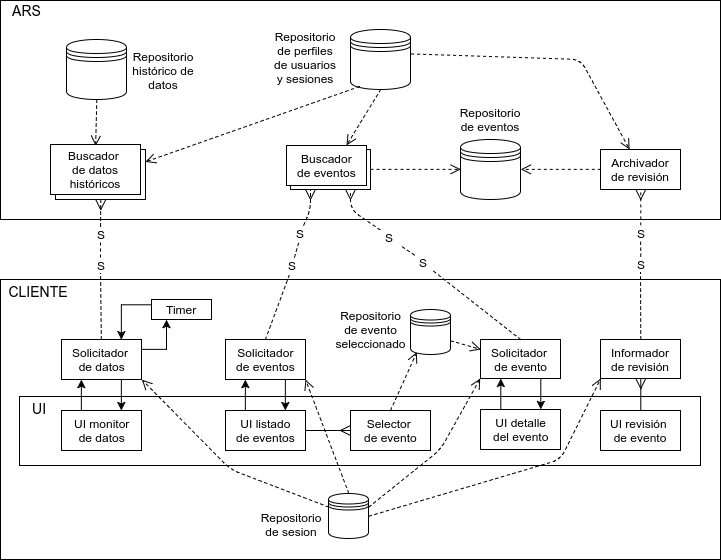
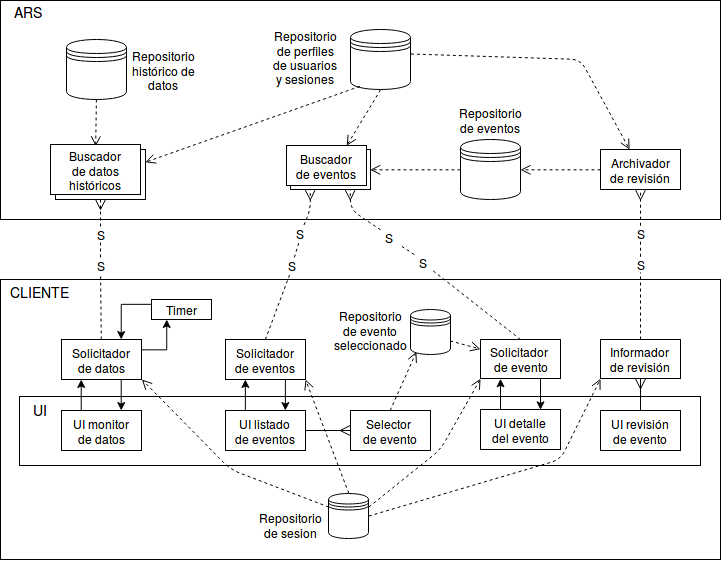
tp final

diff --git a/informe/partes/arquitectura.tex b/informe/partes/arquitectura.tex
@@ -1,6 +1,6 @@
 \section{Arquitectura}
 
-\subsection{Estructura general}
+\subsection{ARS}
 
 \par Primero vamos a presentar la arquitectura del core de nuestro sistema (ARS), es decir de la parte que se encarga de realizar todas las operaciones sobre los datos (ver figura \ref{fig:dia_cyc_core}). \\
 
@@ -18,7 +18,7 @@
 \begin{figure}[H]
   \centering
   \includegraphics[angle=-90,scale=0.52]{imagenes/diagramas/core.png}
-  \caption{Diagrama de componentes y conectores que muestra la estructura general y la interacción entre los componentes mas significativos.}
+  \caption{Diagrama de componentes y conectores que muestra la estructura del ARS y la interacción entre los componentes mas significativos.}
   \label{fig:dia_cyc_core}
 \end{figure}
 \newpage
@@ -44,10 +44,11 @@ En la figura \ref{fig:proc_med} podemos observar en detalle el componente Proces
 \par Las funcionalidades disponibles de nuestro sistema ARS desde el punto de vista de la interfaz de usuario son: monitoreo de datos, visualizar la lista de eventos y revisar los mismos. En todos los casos se necesita que el cliente se comunique con el servidor.
 
 \begin{itemize}
-    \item \textbf{Monitor de datos:} El usuario ingresa a la pantalla de monitoreo y el componente \textit{UI monitor de datos} le envía un mensaje asincrónico al \textit{Solicitador de datos} para pedirle las últimas mediciones tomadas. Al recibir esta petición, lee en el \textit{Repositorio de sesión} las credenciales de sesión actual y le envía un mensaje al componente \textit{UI monitor de datos} para avisarle que recibió su solicitud y que la está procesando. El \textit{Solicitador de datos} se comunica de manera segura (ya que viajan credenciales) con el \textit{Buscador de datos históricos} (que se encuentra en el servidor ARS). Es importante aclarar que le pide una cantidad limitada de datos. Una vez que un \textit{Buscador de datos históricos} recibe una petición, valida que el usuario posea los permisos necesarios para acceder a los datos pedidos (por medio del \textit{Repositorio de perfiles de usuarios y sesiones}). Si el usuario no posee permisos (o su sesión no es válida), el buscador le responde al solicitador acceso denegado. En el caso de que el usuario posea los permisos necesarios, el \textit{Buscador de datos históricos} lee desde el \textit{Repositorio histórico de datos} los datos requeridos para luego enviárselos al \textit{Pulicitador de datos}. Una vez que este recibe la respuesta, se la comunica a la \textit{UI monitor de datos} para que los muestre. Como es una herramienta de monitoreo se necesita que con el correr del tiempo se muestren nuevos datos sin la solicitud expresa del usuario. Por esta razón, incluimos un componente llamado \textit{Timer} para que luego de un tiempo configurado le avise al \textit{Solicitador de datos} que debe pedir nuevos datos. Al recibir este aviso, realiza un nuevo pedido al \textit{Buscador de datos históricos} indicando que se quieren obtener solo datos con fecha mayor al último pedido.
+    \item \textbf{Monitor de datos:} El usuario ingresa a la pantalla de monitoreo y el componente \textit{UI monitor de datos} le envía un mensaje asincrónico al \textit{Solicitador de datos} para pedirle las últimas mediciones tomadas. Al recibir esta petición, lee en el \textit{Repositorio de sesión} las credenciales de sesión actual y le envía un mensaje al componente \textit{UI monitor de datos} para avisarle que recibió su solicitud y que la está procesando. El \textit{Solicitador de datos} se comunica de manera segura (ya que viajan credenciales) con el \textit{Buscador de datos históricos} (que se encuentra en el servidor ARS). Es importante aclarar que le pide una cantidad limitada de datos. Una vez que un \textit{Buscador de datos históricos} recibe una petición, valida que el usuario posea los permisos necesarios para acceder a los datos pedidos (por medio del \textit{Repositorio de perfiles de usuarios y sesiones}). \\
+    Si el usuario no posee permisos (o su sesión no es válida), el buscador le responde al solicitador acceso denegado. En el caso de que el usuario posea los permisos necesarios, el \textit{Buscador de datos históricos} lee desde el \textit{Repositorio histórico de datos} los datos requeridos para luego enviárselos al \textit{Pulicitador de datos}. Una vez que este recibe la respuesta, se la comunica a la \textit{UI monitor de datos} para que los muestre. Como es una herramienta de monitoreo se necesita que con el correr del tiempo se muestren nuevos datos sin la solicitud expresa del usuario. Por esta razón, incluimos un componente llamado \textit{Timer} para que luego de un tiempo configurado le avise al \textit{Solicitador de datos} que debe pedir nuevos datos. Al recibir este aviso, realiza un nuevo pedido al \textit{Buscador de datos históricos} indicando que se quieren obtener solo datos con fecha mayor al último pedido.
     \item \textbf{Visualizar la lista de eventos:} El usuario accede a la pantalla de listar eventos y el componente UI listado de eventos le envía un mensaje asincrónico al solicitador de eventos y éste le envía otro mensaje asincrónico para avisarle que recibió la solicitud. El solicitador de eventos lee los datos del usuario en el repositorio de sesión y luego establece una conexión segura con el buscador de eventos para solicitarle la lista de eventos. El buscador de eventos lee el repositorio de usuarios, roles y sesiones para validar los datos de acceso y luego el repositorio de eventos para pedir la lista de eventos. El buscador de eventos le envía la lista al solicitador de eventos para que éste se lo reenvíe a la interfaz de usuario. \\
     De manera opcional, el usuario puede seleccionar un evento en particular. En ese caso, UI listado de eventos le envía un mensaje sincrónico al selector de evento con el evento elegido para que lo almacene en el Repositorio de evento seleccionado.
-    \item \textbf{Visualizar detalle del evento seleccionado:}Una vez que el usuario logueado está en la pantalla de visualización de un evento en particular, la \textit{UI detalle del evento} por medio de un call asincrónico le indica al \textit{Solicitador de evento} que busque en el \textit{Repositorio de evento seleccionado} (después de validar la sesión por medio de la lectura del \textit{Repositorio de sesión}) cuál es el evento a mostrar. Los datos del mismo son enviados por otro call asincrónico a la misma UI, que sabe como renderizar la información requerida.
+    \item \textbf{Visualizar detalle del evento seleccionado:} Una vez que el usuario logueado está en la pantalla de visualización de un evento en particular, la \textit{UI detalle del evento} por medio de un call asincrónico le indica al \textit{Solicitador de evento} que busque en el \textit{Repositorio de evento seleccionado} (después de validar la sesión por medio de la lectura del \textit{Repositorio de sesión}) cuál es el evento a mostrar. Los datos del mismo son enviados por otro call asincrónico a la misma UI, que sabe como renderizar la información requerida.
     \item \textbf{Revisión de eventos:} En la pantalla de revisión de evento el usuario puede informar la acción realizada o bien, un falso positivo. La interfaz de usuario de revisión de evento le envía un call sincrónico con el resultado del evento para que el informador de revisión lea el repositorio de sesión y luego se lo pase al archivador de revisión. El archivador de sesión valida los datos de usuario y escribe en el repositorio de eventos la medida tomada o el falso positivo.
 \end{itemize}
 
@@ -61,9 +62,11 @@ En la figura \ref{fig:proc_med} podemos observar en detalle el componente Proces
 
 \subsection{Autenticación y creación de sesiones}
 
-\par A continuación pasaremos a explicar los procesos de autenticación, creación de sesión y finalización de sesión. Estos procesos se observan en el diagrama de componentes y conectores de la figura \ref{fig:dia_cyc_autenticacion}. \\
+\par A continuación pasaremos a explicar los procesos de autenticación, creación de sesión y finalización de sesión. Estos procesos se observan en el diagrama de componentes y conectores de la figura \ref{fig:dia_cyc_autenticacion}.\\
 
-\par El proceso de autenticación con el sistema ARS inicia cuando una persona ingresa sus datos de usuario y contraseña en la \textit{UI Login}, que envía estos datos al \textit{Iniciador de login} y se queda esperando la respuesta. Éste, por su parte, inicia una conexión segura con el \textit{Validador de usuarios y contraseñas} (dentro del sistema ARS) para enviarle la petición junto con los datos sensibles de autenticación. Al recibir la petición, el componente \textit{Validador de usuarios y contraseñas} se conecta con el \textit{Hasher}, le envía la contraseña y espera a que sea procesada y devuelta. Una vez obtenido el hash de la contraseña, el componente \textit{Validador de usuarios y contraseñas} corrobora en el \textit{Repositorio de usuarios y contraseñas hasheadas} que exista un usuario que corresponda a esos valores. En caso que no se encuentre el usuario corespondiente, se responde al \textit{Iniciador de sesión} con un error que indica que alguno de los datos ingresados es incorrecto. Este componente responde de la misma manera a la \textit{UI Login} para que muestre el error. En caso de que el componente \textit{Validador de usuarios y contraseñas} encuentre al usuario que corresponde a los valores buscados, le pide al \textit{Creador de sesiones} que genere una nueva sesión para este usuario. Luego de generar la sesión, el \textit{Creador de sesiones} la guarda en el \textit{Repositorio de perfiles de usuarios y sesiones} y responde al \textit{Validador de usuarios y contraseñas} con esta nueva sesión. Para finalizar, se envía esta nueva sesión al \textit{Iniciador de sesión}, quien la almacena en el \textit{Repositorio de sesión} y le comunica a la \textit{UI Login} que se ha conseguido iniciar sesión correctamente. \\
+\par El proceso de autenticación con el sistema ARS inicia cuando una persona ingresa sus datos de usuario y contraseña en la \textit{UI Login}, que envía estos datos al \textit{Iniciador de login} y se queda esperando la respuesta. Éste, por su parte, inicia una conexión segura con el \textit{Validador de usuarios y contraseñas} (dentro del sistema ARS) para enviarle la petición junto con los datos sensibles de autenticación. Al recibir la petición, el componente \textit{Validador de usuarios y contraseñas} se conecta con el \textit{Hasher}, le envía la contraseña y espera a que sea procesada y devuelta. Una vez obtenido el hash de la contraseña, el componente \textit{Validador de usuarios y contraseñas} corrobora en el \textit{Repositorio de usuarios y contraseñas hasheadas} que exista un usuario que corresponda a esos valores. \\
+
+\par En caso que no se encuentre el usuario corespondiente, se responde al \textit{Iniciador de sesión} con un error que indica que alguno de los datos ingresados es incorrecto. Este componente responde de la misma manera a la \textit{UI Login} para que muestre el error. En caso de que el componente \textit{Validador de usuarios y contraseñas} encuentre al usuario que corresponde a los valores buscados, le pide al \textit{Creador de sesiones} que genere una nueva sesión para este usuario. Luego de generar la sesión, el \textit{Creador de sesiones} la guarda en el \textit{Repositorio de perfiles de usuarios y sesiones} y responde al \textit{Validador de usuarios y contraseñas} con esta nueva sesión. Para finalizar, se envía esta nueva sesión al \textit{Iniciador de sesión}, quien la almacena en el \textit{Repositorio de sesión} y le comunica a la \textit{UI Login} que se ha conseguido iniciar sesión correctamente.\\
 
 \par Para el caso del cierre de sesión, cualquier componente dentro de \textit{UI} (donde se incluyen las interfaces para usuarios autenticados) puede enviar una petición al \textit{Finalizador de sesión}, quien inicia una conexión segura con el componente \textit{Borrador de sesión} (dentro del sistema ARS) y le comunica que quiere borrar la sesión. Es importante mencionar que la conexión debe ser segura porque un intermediario podría hacerse pasar por el sistema ARS, contestar que se procesó la petición y continuar utilizando esta sesión válida con acceso a datos sensibles del sistema. El componente \textit{Borrador de sesión} valida la sesión con el \textit{Repositorio de perfiles de usuarios y sesiones}, la marca como finalizada y envía la respuesta al \textit{Finalizador de sesión}. Por último, este componente borra la sesión que se encontraba almacenada en el \textit{Repositorio de sesión} y comunica a quien inició la petición que se procesó el pedido con éxito.
 
@@ -75,6 +78,21 @@ En la figura \ref{fig:proc_med} podemos observar en detalle el componente Proces
   \label{fig:dia_cyc_autenticacion}
 \end{figure}
 
+
+
+\subsection{Estructura general}
+
+Finalmente, y abstrayéndonos de los detalles, los componentes que interactúan en todo el sistema se observan en la figura \ref{fig:general}.
+
+\begin{figure}[H]
+  \begin{subfigure}{\textwidth}
+    \includegraphics[width=\textwidth]{imagenes/diagramas/general.png}
+  \end{subfigure}
+  \caption{Diagrama general del sistema}
+  \label{fig:general}
+\end{figure}
+
+Todo el sistema ARS va a estar instalado en el Ministerio de Energía, junto con el de SimOil, y los sensores van a estar ubicados en el yacimiento.
 
 
 \newpage

diff --git a/informe/partes/cumplimiento_atributos.tex b/informe/partes/cumplimiento_atributos.tex
@@ -4,31 +4,49 @@
 
 \subsection{Performance}
 
-\par
+\begin{itemize}
+    \item \textbf{El sistema no debe tener ningún tipo de demoras:}
+    \par Este atributo de calidad hace referencia principalmente a la interacción de los usuarios con las interfaces del sistema, pero también requiere que, de ser posible, el sistema no deje nunca de funcionar. Para satisfacer este pedido, se tomaron determinaciones que afectaron a distintas partes del sistema. En primer lugar, utilizamos concurrencia en los componentes \textit{Buscador de eventos} y \textit{Buscador de datos históricos}, para poder responder a todos los pedidos de clientes en simultaneo. Al mismo tiempo, el \textit{Buscador de datos históricos} implementa un sistema de paginado que nos asegura tener control sobre la cantidad de datos y el tiempo que le llevará al sistema procesarlos. Para el caso del componente \textit{Archivador de revisión}, no creimos necesaria concurrencia, debido a que solo el encargado de resolver los eventos (Jefe de Operaciones) tendrá acceso a este servicio y deberá guardar una revisión solo en los casos de alarma.
+    
+    \item \textbf{Dar aviso en forma inmediata vía un servicio de SMS:}
+    \par Para resolver este requerimiento, se pensó un procedimiento para asgegurar que cada SMS va a enviarse lo antes posible (siempre limitados por el servicio externo). En primer lugar, al detectarse una anomalía, el componente \textit{Detector de anomalías} da aviso inmediato al \textit{Activador de alarmas}, quien se lo comunica al \textit{Enviador de avisos de alarma}. Este componente intenta iniciar una conexión con el servidor de SMS para pedir el envío del aviso. En caso positivo, el proceso termina. En caso que el servidor de SMS no responda o no pueda procesar nuestro pedido, el mensaje es guardado en el \textit{Repositorio de mensajes pendientes} y se configura el \textit{Timer} para que dé aviso al \textit{Enviador de avisos de alarma} en 2 segundos. Cuando el componente recibe este aviso por parte del \textit{Timer}, busca en el \textit{Repositorio de mensajes pendientes} si hay mensajes para enviar y repite el proceso previo: si se logra enviar se elimina del repositorio, sino se configura el \textit{Timer} nuevamente.
+
+    \item \textbf{Manejo de grandes volúmenes de datos:}
+    \par Para este escenario decidimos que la mejor solución, al igual que con el escenario que especifica que no debe haber demoras, era aplicar la táctica de concurrencia en los componentes que se encargan de leer el repositorio de eventos. Al mismo tiempo, se utiliza concurrencia dentro del \textit{Procesador de mediciones} para contemplar la gran cantidad de mediciones que envían constantemente los sensores.
+    
+    \item \textbf{Detección y aviso de eventos catastróficos:}
+    \par Con todas las medidas tomadas y mencionadas previamente, creemos que desde la recepción de datos de medición hasta el envío del SMS que alerta al encargado se tiene un tiempo adecuado para que el jefe de operaciones pueda actuar en consecuencia antes de que pasen 24 hs.
+
+\end{itemize}
 
 \subsection{Seguridad}
 
-\par
+\begin{itemize}
+    \item \textbf{LogIn:} 
+    \par Como el sistema ARS maneja datos muy sensibles, se debía limitar el acceso solo a actores válidos y a estos mismos brindarle solo el acceso a los componentes permitidos para el rol vinculado a su propio usuario. Para lograr este requisito, se implementa un sistema de LogIn capaz de Autenticar y Autorizar el acceso a los diferentes usuarios. Claramente, en caso de no brindar credenciales válidas, se le niega el acceso al actor que intenta utilizar el sistema.\\
+    Como el proceso de validación se inicia del lado de los clientes, que brindan sus datos de acceso y son enviados al sistema ARS, el canal de conexión entre los mismos debe ser seguro, con el fin de evitar revelar estos datos a cualquiera que se entrometa en la comunicación. Esto se alcanza implementando un handshake de clave asimétrica. 
+    Una vez que el cliente es capaz de enviar la información de manera segura, el sistema ARS a su vez debe comparar los datos recibidos con los datos que válidos ya almacenados. Para mas seguridad, se almacenan los nombres de usuario y sus claves de manera \textit{hasheada}. Por lo tanto, el sistema ARS deberá tener un hasher que se encargue de transformar la información recibida para posteriormente comparar con lo almacenado.\\
+    \item \textbf{Aislación física de los datos:} 
+    \par Por otro lado, todo el sistema ARS junto con las BD de producción y las de backup, estarán instalados en servidores dentro del edificio del Ministerio de Energía, para asegurar la seguridad y la integridad física de los datos procesados, mas allá de la información transmitida entre los diferentes actores.\\
+    \item \textbf{Comunicación segura con Entes Reguladores:} 
+    \par Finalmente, se requiere seguridad en el envío de datos a los Entes Reguladores. Nosotros utilizamos un servidor de mail tradicional para comunicar novedades a los mismos. Claramente, éstos no son infalibles ni seguros. Por ello, no se envía información sensible por estos canales, tan sólo novedades. Es decir que cada cierto tiempo, si hay nuevos datos históricos y eventos, se envía un mail a estos actores diciendo que el sistema ha procesado nuevos datos y hay información actualizada. Entonces para poder verlos, se invita a los mismos a ingresar al sistema (de modo seguro, por el LogIn ya mencionado) y evitando revelar datos importantes de manera innecesaria.
+\end{itemize}
 
 \subsection{Disponibilidad}
 
-\par
+\begin{itemize}
+    \item \textbf{Backup en caso de pérdida o siniestro:} 
+    \par El diseño del sistema está preparado para recuperarse ante una falla en la base de datos de las mediciones históricas. Para esto fueron creados dos repositorios de backup en donde cada cierto tiempo se almacenan los datos que fueron agregados o modificados del repositorio principal. Esta tarea es llevada a cabo por el componente \textit{Backups updater}. Si el repositorio principal falla, automáticamente todos los componentes que lo usan empiezan a apuntar a alguno de los backups, mientras que el \textit{Backup restorer} se encarga de restauración de datos. Una vez que esto sucede, todos los componentes vuelven a apuntar al Repositorio de datos históricos y el usuario nunca detectó que hubo una falla en el sistema.
+    
+    \item \textbf{La alarma vía SMS debe recibirse sí o sí:}
+    \par En el caso en el cual el servidor de SMS no esté disponible, el sistema está preparado para reintentar hasta que el mensaje sea enviado. Para esto se crea el repositorio de mensajes pendientes. Allí, el componente \textit{Enviador de avisos de alarma}, que es el encargado de enviar los SMSs, guarda los mensajes que no pudieron ser enviador por algún problema de disponibilidad del servicio. Luego de cierto tiempo, es notificado por un timer, y procede a reintentar el envío de mensajes que fueron almacenados en el repositorio. Si esta vez logra enviarlos, los borra del repositorio, y sino, vuelve a intentar luego del próximo aviso del timer. 
+\end{itemize}
 
 \subsection{Usabilidad}
 
-\par
-
-\subsection{Testeabilidad}
-
-este no va para mi (aparte ni lo menciona en las preguntas)\\
-
-
-
-\textbf{NO OLVIDAR}\\
-1. ¿Cómo se cumplen los requerimientos de disponibilidad?\\
-2. ¿Cómo se cumplen los requerimientos de seguridad?\\
-3. ¿Cómo es la interacción con los servicios externos? (Instrumentos de monitoreo) ¿Hay
-disponibilidad? ¿Seguridad? ¿Es tolerante a fallos?\\
-4. ¿Cómo se logra performance? ¿Se cumple pronóstico de evento catastrófico 24hs
-antes?\\
-5. ¿Cómo se informa a los entes reguladores?
+\begin{itemize}
+    \item \textbf{Interacción UI-Usuarios:} 
+    \par Como el sistema maneja un gran volumen de datos, los múltiples \textit{requests} entre los clientes y el sistema ARS involucrarán mucha información que eventualmente merme la performance, en comparación a su estado normal. Ante estas situaciones, el sistema debe asegurar que el usuario sepa en todo momento que las transacciones estan ocurriendo (UI con temporizadores de espera) y especialmente que en ventanas donde el usuario debe ingresar datos, la misma se bloquee a la espera de la respuesta proveniente del servidor (para evitar errores por la interacción no esperada del usuario con el sistema). Para esto último se utilizan calls sincrónicos, de lo contrario se usan conectores asincrónicos.
+    \item \textbf{Monitoreo:} 
+    \par Los usuarios dispondrán según sus perfiles, la capacidad de monitorear y visualizar datos de manera ágil y organizada. A los mismos se accede por medio de las diferentes ventanas que componen el módulo de UI del sistema ARS. 
+\end{itemize}

diff --git a/informe/partes/conclusiones.tex b/informe/partes/conclusiones.tex
@@ -6,6 +6,6 @@ La solución presentada especifica los principales casos de uso (actores, condic
 
 El diseño de la arquitectura es un esquema de organización estructural del sistema con un nivel de abstracción alto en donde se muestran las relaciones entre los componentes, que bien pueden ser de software o hardware, y donde se describe qué es lo que hace cada uno sin entrar en el detalle del cómo lo hace, pero cuyas tareas son potencialmente complejas. \\
 
-Este enfoque, conocido como \textit{programming in the large}, está en contraste con el abordado en el TP1. Allí, la implementación la documentamos mediante diagramas del diseño orientado a objetos, el cual nos permitió mostrar componentes a bajo nivel: clases, que se terminan programando, y los objetos, como instancias de las primeras. La interacción entre ellos es más simples y los diagramas nos permitían un mayor detalle de qué es lo que hace cada objeto, pero aún así ocultando el cómo. Esta forma de diseñar se la conoce como \textit{programming in the small}. \\
+Este enfoque, conocido como \textit{programming in the large}, está en contraste con el abordado en el TP1. Allí, la implementación la documentamos mediante diagramas del diseño orientado a objetos, el cual nos permitió mostrar componentes a bajo nivel: clases, que se terminan programando, y los objetos, como instancias de las primeras. La interacción entre ellos es más simple y los diagramas nos permitían un mayor detalle de qué es lo que hace cada objeto, pero aún así ocultando el cómo. Esta forma de diseñar se la conoce como \textit{programming in the small}. \\
 
-En las vistas de arquitectura que hicimos, utilizamos tácticas para reforzar los escenarios de atributos de calidad que escribimos primero, como la Seguridad, Disponibilidad y Performance, pero no nos permite (o al menos no es tan claro) implementar tácticas para atacar los atributos de Modificabilidad, Usabilidad y Testeabilidad. (decir que con el doo se pueden implementar)
+En las vistas de arquitectura que hicimos, utilizamos tácticas para plasmar los escenarios de atributos de calidad que fueron presentados en la primera entrega, como la Seguridad, Disponibilidad y Performance. Sin embargo, por la naturaleza de estas vistas no podemos, al menos con tanta precisión, implementar tácticas para atacar los atributos de Modificabilidad, Usabilidad y Testeabilidad. Éstas requieren de un diseño y diagramas con un alcance a más bajo nivel. Es por ello que para documentar un sistema cubriendo cada arista, es necesario que haya un complemento entre ambos diseños, y que el arquitecto piense, diseñe y programe en \textit{grande} y en \textit{pequeño}. 

diff --git a/informe/partes/calidad.tex b/informe/partes/calidad.tex
@@ -1,4 +1,4 @@
-\section{Atributos de Calidad}
+\section{Atributos de Calidad}\label{sec:calidad} 
 
 \subsection{Seguridad}
 
